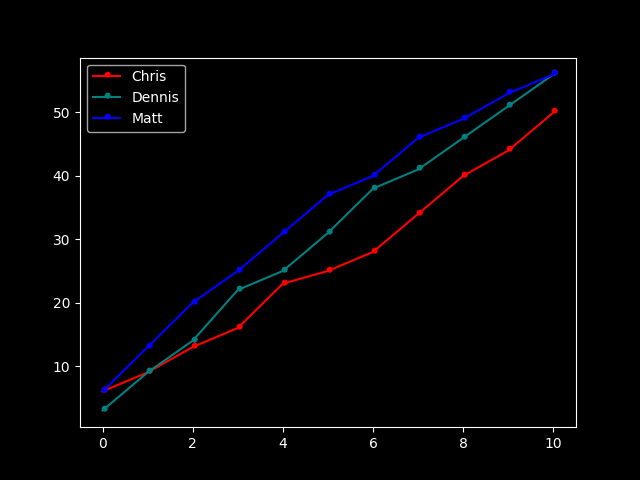
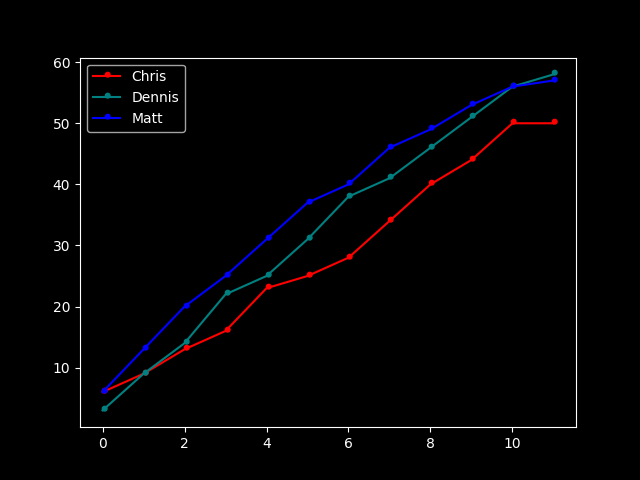
update2021-11-26

diff --git a/nfl-2021/index.html b/nfl-2021/index.html
@@ -228,16 +228,30 @@
       </tr>
       <tr>
        <th>
+        12
+       </th>
+       <td>
+        0
+       </td>
+       <td>
+        2
+       </td>
+       <td>
+        1
+       </td>
+      </tr>
+      <tr>
+       <th>
         Total
        </th>
        <td>
         50
        </td>
        <td>
-        56
+        58
        </td>
        <td>
-        56
+        57
        </td>
       </tr>
      </tbody>
@@ -386,7 +400,7 @@
   <html>
    <body>
     <p id="updates">
-     updated: 2021-11-23 ...version: U90_u
+     updated: 2021-11-26 ...version: w11_o
     </p>
    </body>
   </html>

diff --git a/nfl-2021/nfl2021.py b/nfl-2021/nfl2021.py
@@ -236,6 +236,11 @@ meechPoolPicks = {
 ['Dallas Cowboys'],
 ['Los Angeles Chargers'],
 ['Tampa Bay Buccaneers','51 total points']
+],
+"week_12":[
+['Detroit Lions'],
+['Dallas Cowboys'],
+['Buffalo Bills']
 ]
 }
 
@@ -582,8 +587,8 @@ print("winning percentage: " + str(round((sum(mpTotal)/len(winsAll)),4)))
 for i in weekPicksSummary:
     print(i)
 
-for index,item in enumerate(meechPoolPicks["week_11"]):
-    if index + 1 == len(meechPoolPicks["week_11"]):
+for index,item in enumerate(meechPoolPicks["week_12"]):
+    if index + 1 == len(meechPoolPicks["week_12"]):
         print(item[0],"-",item[1])
     else:
         print(item[0])
